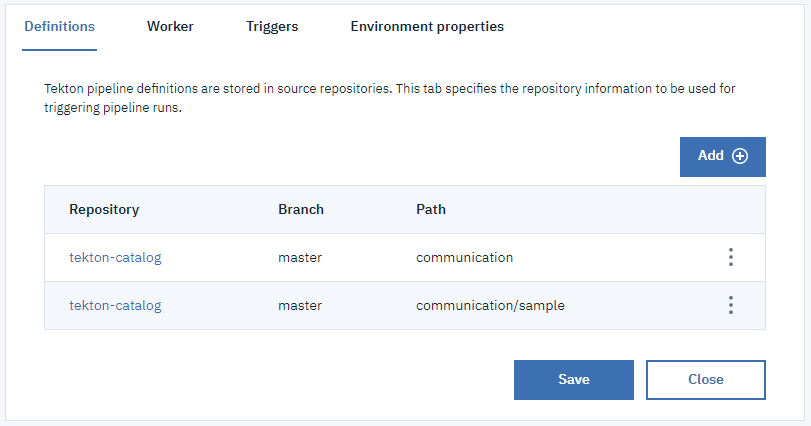
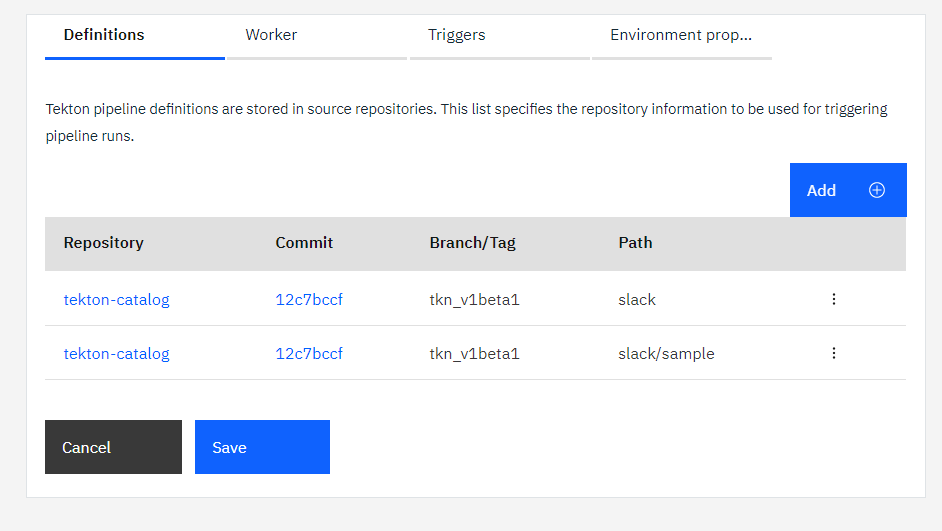
Update slack task sample and filename

diff --git a/slack/README.md b/slack/README.md
@@ -50,7 +50,7 @@ The `sample` sub-directory contains an EventListener and Pipeline definition tha
 
    ![Toolchain overview](./sample/sample-toolchain-overview.png)
 
-2) Add the definitions of this task and the sample (`communication` and `communication/sample` paths)
+2) Add the definitions of this task and the sample (`slack` and `slack/sample` paths)
 
    ![Tekton pipeline definitions](./sample/sample-tekton-pipeline-definitions.png)
 
